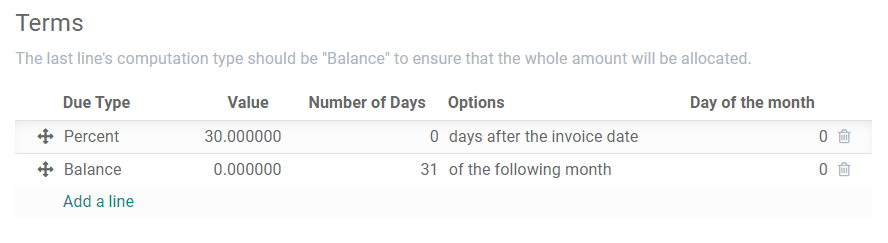
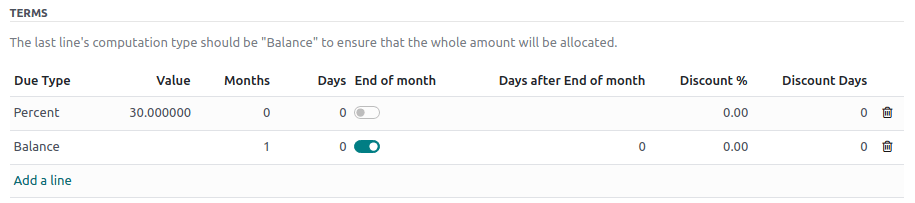
[IMP] accounting: update payment terms
task-3211595

closes odoo/documentation#5016

diff --git a/content/applications/finance/accounting/customer_invoices/payment_terms.rst b/content/applications/finance/accounting/customer_invoices/payment_terms.rst
@@ -2,120 +2,141 @@
 Payment terms and installment plans
 ===================================
 
-**Payment Terms** specify all the conditions under which a sale is paid, mostly to ensure customers
-pay their invoices correctly and on time.
+**Payment terms** specify all the conditions of a sale's payment to help ensure customers pay their
+invoices correctly and on time.
 
-Payment Terms can be applied to sales orders, customer invoices, supplier bills, and contacts. These
-conditions cover:
+Payment terms are generally defined on documents such as sales orders, customer invoices, and
+vendor bills. Payment terms cover:
 
-- The due date
-- Some discounts
-- Any other condition on the payment
-
-Defining Payment Terms automatically calculates the payments' due dates. This is particularly
-helpful for managing installment plans.
+- The due date(s)
+- Early payment discounts
+- Any other conditions on the payment
 
 An **installment plan** allows the customers to pay an invoice in parts, with the amounts and
 payment dates defined beforehand by the seller.
 
-**Examples of Payment Terms:**
-
-- | **Immediate Payment**
-  | The full payment is due on the day of the invoice's issuance.
-- | **15 Days** (or **Net 15**)
-  | The full payment is due 15 days after the invoice date.
-- | **21 MFI**
-  | The full payment is due by the 21st of the month following the invoice date.
-- | **2% 10, Net 30 EOM**
-  | 2% :doc:`cash discount <cash_discounts>` if the payment is received within ten days. Otherwise,
-    the full payment is due at the end of the month following the invoice date.
-
-.. note::
-   Payment terms are not to be confused with down payment invoices. If, for a specific order, you
-   issue several invoices to your customer, that is neither a payment term nor an installment plan,
-   but an invoicing policy.
+.. example::
+   Immediate Payment
+     The full payment is due on the day of the invoice's issuance.
+   15 Days (or Net 15)
+     The full payment is due 15 days after the invoice date.
+   21 MFI
+     The full payment is due by the 21st of the month following the invoice date.
+   30% Advance End of Following Month
+     30% is due on the day of the invoice's issuance. The remaining balance is due at the end of the
+     following month.
+   2% 10, Net 30 EOM
+     A 2% :doc:`cash discount <cash_discounts>` if the payment is received within ten days.
+     Otherwise, the full payment is due at the end of the month following the invoice date.
 
 .. note::
-   This document is about the *Payment Terms* feature, not *Terms & Conditions*.
+   - Payment terms are not to be confused with :doc:`down payment invoices
+     </applications/sales/sales/invoicing/down_payment>`. If, for a specific order, you issue
+     multiple invoices to your customer, that is neither a payment term nor an installment plan but
+     an invoicing policy.
+   - This page is about the *payment terms* feature, not :doc:`terms & conditions
+     <terms_conditions>`, which can be used to declare contractual obligations regarding content
+     use, return policies, and other policies surrounding the sale of goods and services.
 
 .. seealso::
+   - `Odoo Tutorials: payment terms <https://www.odoo.com/slides/slide/payment-terms-1679>`_
    - :doc:`cash_discounts`
-   - `Odoo Tutorials: Payment Terms <https://www.odoo.com/slides/slide/payment-terms-1679>`_
 
 Configuration
 =============
 
-Go to :menuselection:`Accounting --> Configuration --> Payment Terms` and click on *Create*.
+To create new payment terms, follow these steps:
 
-The **Description on the Invoice** is the text displayed on the document (sale order, invoice,
-etc.).
+#. Go to :menuselection:`Accounting --> Configuration --> Payment Terms` and click on
+   :guilabel:`New`.
+#. Enter a name in the :guilabel:`Payment Terms` field. This field is the name displayed in the
+   database and is not customer-facing.
+#. Enter the text to be displayed on the document (sales order, invoice, etc.) in the
+   :guilabel:`Description on the Invoice` field.
+#. Tick the :guilabel:`Display terms on invoice` checkbox to display a breakdown of each payment and
+   its due date on the invoice report, if desired.
+#. In the :guilabel:`Terms` section, add a set of rules (terms) to define what needs to be paid and
+   by which due date(s). Defining terms automatically calculates the payments' due date(s). This is
+   particularly helpful for managing **installment plans** (:dfn:`payment terms with multiple
+   terms`).
 
-In the **Terms** section, you can add a set of rules, called *terms*, to define what needs to be
-paid and by which due date.
-
-To add a term, click on *Add a line*, and define its *Type*, *Value*, and *Due Date Computation*.
-
-.. important::
-   - Terms are computed in the order they are set up.
-   - The **balance** should always be used for the last line.
-
-In the following example, 30% is due on the day of issuance, and the balance is due at the end of
-the following month.
-
-.. image:: payment_terms/configuration.png
-   :align: center
-   :alt: Example of Payment Terms. The last line is the balance due on the 31st of the following
-         month.
-
-Using Payment Terms
-===================
-
-Payment Terms can be defined in the **Due Date** field, with the **Terms** drop-down list, on:
-
-- | **Quotations**
-  | To set specific payment terms automatically on all invoices generated from a quotation.
-- | **Customer Invoices**
-  | To set specific payment terms on an invoice.
-- | **Vendor Bills**
-  | To set specific payment terms on a bill. This is mostly useful when you need to manage vendor
-    terms with several installments. Otherwise, setting the *Due Date* is enough.
+   To add a term, click on :guilabel:`Add a line`, define its :guilabel:`Due Type` and
+   :guilabel:`Value`, and fill out the appropriate fields to define when the term is due, including
+   any :doc:`discounts <cash_discounts>`. Due dates are calculated by taking the invoice/bill date,
+   first adding the :guilabel:`Months`, and then adding the :guilabel:`Days`. If the :guilabel:`End
+   of month` toggle is enabled, the due date will then be the end of that month, plus any
+   :guilabel:`Days after End of month`.
 
 .. tip::
-   You can also define a **Due Date** manually. If Payment Terms are already defined, empty the
-   field so you can select a date.
+   To instead specify a number of days *before the end of the month*, use a negative value in the
+   :guilabel:`Days after End of month` field.
 
-Payment Terms can be defined with the **Payment Terms** field on:
+To test that your payment terms are configured correctly, enter an invoice amount and invoice date
+in the :guilabel:`Example` section to generate the payments that would be due and their due dates
+using these payment terms.
 
-- | **Contacts**
-  | To set specific payment terms automatically on new sales orders, invoices, and bills of a
-    contact. This can be modified in the contact’s *Form View*, under the *Sales & Purchase* tab.
+.. important::
+   - Terms are computed in the order of their due dates.
+   - The **balance** should always be used for the last line.
 
-Journal Entries
+.. example::
+   In the following example, 30% is due on the day of issuance, and the balance is due at the end of
+   the following month.
+
+   .. image:: payment_terms/configuration.png
+      :alt: Example of Payment Terms. The last line is the balance due on the 31st of the following
+            month.
+
+Using payment terms
+===================
+
+Payment terms can be defined using the :guilabel:`Payment Terms` field on:
+
+- **Contacts:** To automatically set default payment terms on a contact's new sales orders,
+  invoices, and bills. This can be modified in the contact form, under the :guilabel:`Sales &
+  Purchase` tab.
+- **Quotations/Sales Orders:** To set specific payment terms automatically on all invoices generated
+  from a quotation or sales order.
+
+Payment terms can be defined using the :guilabel:`Due Date` field, with the :guilabel:`Terms`
+drop-down list on:
+
+- **Customer invoices:** To set specific payment terms on an invoice.
+- **Vendor bills:** To set specific payment terms on a bill.
+
+.. tip::
+   Setting payment terms on a vendor bill is mostly useful for managing vendor terms with multiple
+   installments or cash discounts. Otherwise, manually setting the **due date** is enough. If
+   payment terms are already defined, empty the field to select a date.
+
+Journal entries
 ===============
 
-Invoices with specific Payment Terms generate different *Journal Entries*, with one *Journal Item*
-for every computed *Due Date*.
+Invoices with specific payment terms generate different *journal entries*, with one *journal item*
+for every computed *due date*.
 
-This makes for easier *Follow-ups* and *Reconciliation* since Odoo takes each due date into account,
-rather than just the balance due date. It also helps to get an accurate *Aged Receivable report*.
+This makes for easier :doc:`follow-ups </applications/finance/accounting/payments/follow_up>` and
+:doc:`reconciliation </applications/finance/accounting/bank/reconciliation>` since Odoo takes each
+due date into account, rather than just the balance due date. It also helps to get an accurate
+:ref:`aged receivable report <customer-invoices/aging-report>`.
 
-.. image:: payment_terms/journal-entry.png
-   :align: center
-   :alt: The amount debited on the Account Receivable is split into two Journal Items with distinct
-         Due Dates
+.. example::
+   .. image:: payment_terms/journal-entry.png
+      :alt: The amount debited to the account receivable is split into two journal items with
+            distinct due dates
 
-In this example, an invoice of $1000 has been issued with the following payment terms: *30% is due
-on the day of issuance, and the balance is due at the end of the following month.*
+   In this example, an invoice of $1000 has been issued with the following payment terms: *30% is
+   due on the day of issuance, and the balance is due at the end of the following month.*
 
-+----------------------+-------------+---------+---------+
-| Account              | Due date    | Debit   | Credit  |
-+======================+=============+=========+=========+
-| Account Receivable   | February 21 | 300     |         |
-+----------------------+-------------+---------+---------+
-| Account Receivable   | March 31    | 700     |         |
-+----------------------+-------------+---------+---------+
-| Product Sales        |             |         | 1000    |
-+----------------------+-------------+---------+---------+
+   +----------------------+-------------+---------+---------+
+   | Account              | Due date    | Debit   | Credit  |
+   +======================+=============+=========+=========+
+   | Account Receivable   | February 21 | 300     |         |
+   +----------------------+-------------+---------+---------+
+   | Account Receivable   | March 31    | 700     |         |
+   +----------------------+-------------+---------+---------+
+   | Product Sales        |             |         | 1000    |
+   +----------------------+-------------+---------+---------+
 
-The $1000 debited on the Account Receivable is split into two distinct *Journal Items*. Both of
-them have their own **Due Date**.
+   The $1000 debited to the account receivable is split into two distinct journal items. Both of
+   them have their own due date.

diff --git a/content/applications/finance/accounting/customer_invoices.rst b/content/applications/finance/accounting/customer_invoices.rst
@@ -188,6 +188,8 @@ you will see the follow-up message and all overdue invoices.
 
 .. image:: customer_invoices/invoice12.png
 
+.. _customer-invoices/aging-report:
+
 Customer aging report:
 ~~~~~~~~~~~~~~~~~~~~~~
 
